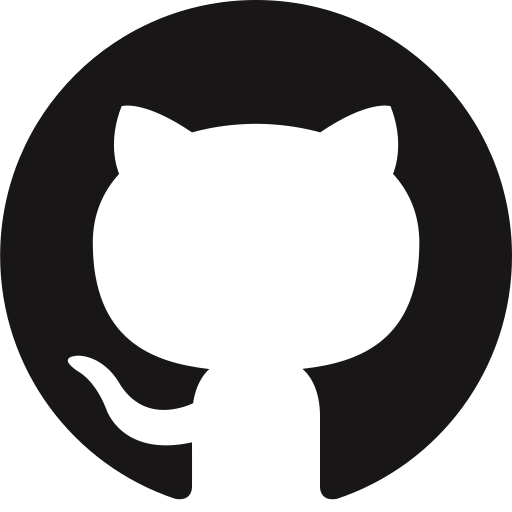
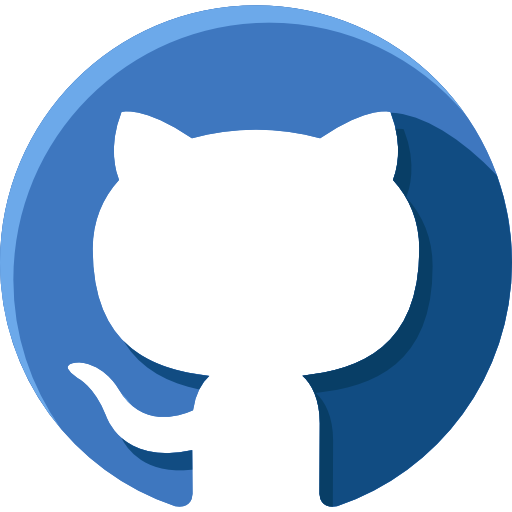
Mudando imagens e corrigindo responsividade skills

diff --git a/src/app/home/home.component.html b/src/app/home/home.component.html
@@ -47,7 +47,7 @@
             class="bg-gradient-to-br from-sky-500 to-cyan-400 bg-clip-text text-transparent"
             >Marcos Ferreira</span
           >
-          👋
+          <span class="animate-waving-hand">👋🏻</span>
         </h1>
         <p class="mt-6 mb-6 text-xl leading-9">
           Student of <a class="text-cyan-400">Information Systems</a> at UNESA,
@@ -77,58 +77,64 @@
     </div>
   </div>
 
-  <div class="px-3 py-9 gap-9 columns-6">
-    <img
-      data-tooltip-target="tooltip-animation"
-      class="h-16 w-16"
-      src="/assets/images/azure.png"
-      loading="lazy"
-      alt="Azure Logo"
-      data-bs-toggle="tooltip"
-      title="Azure Cloud Solution"
-    />
+  <div class="mx-auto max-w-screen-lg">
+    <div class="mx-auto max-w-screen-lg px-3 py-9">
+      <div
+        class="flex flex-wrap items-center md:flex-wrap md:justify-between md:gap-9 md:gap-x-9 space-x-10 space-y-4"
+      >
+        <img
+          data-tooltip-target="tooltip-animation"
+          class="h-16 w-16"
+          src="/assets/images/azure.png"
+          loading="lazy"
+          alt="Azure Logo"
+          data-bs-toggle="tooltip"
+          title="Azure Cloud Solution"
+        />
 
-    <img
-      class="h-16 w-16"
-      src="/assets/images/c-sharp.png"
-      loading="lazy"
-      alt="c-sharp Logo"
-      data-bs-toggle="tooltip"
-      title="C-Sharp Programming language"
-    />
-    <img
-      class="h-16 w-16"
-      src="/assets/images/dotnet.png"
-      loading="lazy"
-      alt="dotnet Logo"
-      data-bs-toggle="tooltip"
-      title="Dotnet framework"
-    />
-    <img
-      class="h-16 w-16"
-      src="/assets/images/angular.png"
-      loading="lazy"
-      alt="Angular Logo"
-      data-bs-toggle="tooltip"
-      title="Angular frontend framework"
-    />
-    <img
-      class="h-16 w-16"
-      src="/assets/images/java.png"
-      loading="lazy"
-      alt="Java Logo"
-      data-bs-toggle="tooltip"
-      title="Java Programming language"
-    />
-    <img
-      class="h-16 w-16"
-      src="/assets/images/spring-boot.png"
-      loading="lazy"
-      alt="SpringBoot Logo"
-      data-bs-toggle="tooltip"
-      title="SpringBoot framework"
-    />
-    <!-- ... -->
+        <img
+          class="h-16 w-16"
+          src="/assets/images/c-sharp.png"
+          loading="lazy"
+          alt="c-sharp Logo"
+          data-bs-toggle="tooltip"
+          title="C-Sharp Programming language"
+        />
+        <img
+          class="h-16 w-16"
+          src="/assets/images/dotnet.png"
+          loading="lazy"
+          alt="dotnet Logo"
+          data-bs-toggle="tooltip"
+          title="Dotnet framework"
+        />
+        <img
+          class="h-16 w-16"
+          src="/assets/images/angular.png"
+          loading="lazy"
+          alt="Angular Logo"
+          data-bs-toggle="tooltip"
+          title="Angular frontend framework"
+        />
+        <img
+          class="h-16 w-16"
+          src="/assets/images/java.png"
+          loading="lazy"
+          alt="Java Logo"
+          data-bs-toggle="tooltip"
+          title="Java Programming language"
+        />
+        <img
+          class="h-16 w-16"
+          src="/assets/images/spring-boot.png"
+          loading="lazy"
+          alt="SpringBoot Logo"
+          data-bs-toggle="tooltip"
+          title="SpringBoot framework"
+        />
+        <!-- ... -->
+      </div>
+    </div>
   </div>
 
   <div class="mx-auto max-w-screen-lg px-3 pb-6">
@@ -144,7 +150,9 @@
         class="flex flex-col items-center gap-x-8 rounded-md bg-slate-800 p-3 md:flex-row"
       >
         <div class="shrink-0">
-          <a href="/"
+          <a
+            href="https://github.com/MarcosFerreira17/linky-shop-app"
+            target="_blank"
             ><img
               class="transition duration-700 h-36 w-36 hover:translate-y-1"
               src="assets/images/project-1.png"
@@ -198,7 +206,9 @@
         class="flex flex-col items-center gap-x-8 rounded-md bg-slate-800 p-3 md:flex-row"
       >
         <div class="shrink-0">
-          <a href="/"
+          <a
+            href="https://github.com/MarcosFerreira17/ProEventos"
+            target="_blank"
             ><img
               class="transition duration-700 h-36 w-36 hover:translate-y-1"
               src="assets/images/project-2.png"
@@ -251,7 +261,9 @@
         class="flex flex-col items-center gap-x-8 rounded-md bg-slate-800 p-3 md:flex-row"
       >
         <div class="shrink-0">
-          <a href="/"
+          <a
+            href="https://github.com/MarcosFerreira17/clean-architecture_templates"
+            target="_blank"
             ><img
               class="transition duration-700 h-36 w-36 hover:translate-x-2"
               src="assets/images/project-3.png"
@@ -302,7 +314,9 @@
         class="flex flex-col items-center gap-x-8 rounded-md bg-slate-800 p-3 md:flex-row"
       >
         <div class="shrink-0">
-          <a href="/"
+          <a
+            href="https://github.com/MarcosFerreira17/url-shortener-api"
+            target="_blank"
             ><img
               class="transition duration-700 h-36 w-36 hover:-translate-y-1.5"
               src="assets/images/project-4.png"
@@ -348,14 +362,15 @@
           </p>
         </div>
       </div>
-      <div>
-        <p
-          class="transition duration-700 font-mono text-lg italic font-medium tracking-tighter text-sky-500/75 hover:text-sky-300"
+      <div class="flex space-x-2 justify-center">
+        <button
+          type="button"
+          class="transition duration-700 delay-100 animate-pulse font-mono text-lg italic font-medium tracking-tighter text-sky-500 hover:text-sky-300"
         >
           <a href="https://github.com/MarcosFerreira17" target="_blank"
             >see more...</a
           >
-        </p>
+        </button>
       </div>
     </div>
   </div>
@@ -367,7 +382,7 @@
         Let's connect
       </h1>
       <p class="text-lg">
-        I'm posting .NET/Java and
+        I'm posting about
         <span class="text-sky-400 italic">software engineering</span> content on
         multiple Social Media platforms.
         <span class="font-bold"> Reach out</span> and let's
@@ -388,24 +403,23 @@
       <a href="https://github.com/MarcosFerreira17" target="_blank">
         <img
           class="h-16 w-16"
-          src="/assets/images/Octocat.png"
+          src="/assets/images/github.png"
           loading="lazy"
           alt="Github Logo"
           data-bs-toggle="tooltip"
           title="My portfolio on github"
         />
       </a>
-      <a href="https://medium.com/" target="_blank"
+      <a href="mailto:marcosfw7@outlook.com" target="_blank"
         ><img
           class="h-16 w-16"
-          src="/assets/images/medium.png"
+          src="/assets/images/email.png"
           loading="lazy"
-          alt="Medium Logo"
+          alt="send email Logo"
           data-bs-toggle="tooltip"
-          title="Medium blog"
+          title="Marcos Ferreira email address"
         />
       </a>
-      <div></div>
       <!-- ... -->
     </div>
   </div>
@@ -416,7 +430,7 @@
         <!-- -->
         <a
           class="text-cyan-400 hover:underline"
-          href=""
+          href="https://www.linkedin.com/in/marcoswferreira"
           target="_blank"
           rel="noopener noreferrer"
           >Marcos Ferreira</a

diff --git a/tailwind.config.js b/tailwind.config.js
@@ -2,10 +2,28 @@
 module.exports = {
   content: [
     './src/**/**/*.{html,css,js}',
-    './src/app/admin/.{html,css,js}'
+    './src/app/home/.{html,css,js}',
+    './pages/**/*.{js,ts,jsx,tsx}',
+    './components/**/*.{js,ts,jsx,tsx}',
   ],
   theme: {
-    extend: {},
+    extend: {
+      keyframes: {
+        wave: {
+          '0%': { transform: 'rotate(0.0deg)' },
+          '10%': { transform: 'rotate(14deg)' },
+          '20%': { transform: 'rotate(-8deg)' },
+          '30%': { transform: 'rotate(14deg)' },
+          '40%': { transform: 'rotate(-4deg)' },
+          '50%': { transform: 'rotate(10.0deg)' },
+          '60%': { transform: 'rotate(0.0deg)' },
+          '100%': { transform: 'rotate(0.0deg)' },
+        },
+      },
+      animation: {
+        'waving-hand': 'wave 2s linear infinite',
+      },
+    },
   },
   plugins: [],
 }
